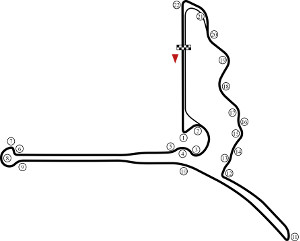
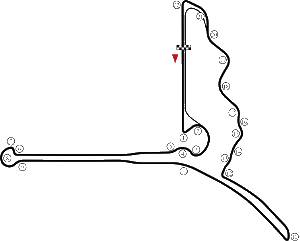
kleine veranderingen

diff --git a/public/mijnProject/css/design.css b/public/mijnProject/css/design.css
@@ -177,6 +177,31 @@ body {
 .achtergrondfoto22{
     background-image: url("../images/Vlaggen/FlagUnited_Arab_Emirates.jpg");
 }
+
+.GPnaam{
+    text-align: center;
+    font-family: verdana;
+}
+
+.info{
+    font-family: verdana;
+    font-size: 20px;
+    float: left;
+}
+
+.fotocircuit{
+    vertical-align: center;
+}
+
+.hoofdinfo{
+    margin-left: 50px;
+
+}
+
+.tekst{
+    width: 50%;
+}
+
 .coureur {
     width: 40%;
     height: 300px;

diff --git a/public/mijnProject/php/circuits.php b/public/mijnProject/php/circuits.php
@@ -313,57 +313,64 @@ $id = $_GET["id"];
     </head>
 
     <body>
+        <header class="GPnaam">
         <h1>Grand Prix van <?php echo $land[0]; ?> </h1>
+        </header>
         <br>
-        <h2> <?php echo $naam[0]; ?> : </h2>
-
-        <table>
-            <tr>
-                <td>Eerste Grand Prix:</td>
-                <td> <?php echo $eerste[0]; ?> </td>
-            </tr>
-            <tr>
-                <td>Circuit lengte:</td>
-                <td> <?php echo $lengte[0]; ?> </td>
-            </tr>
-            <tr>
-                <td>Aantal rondes:</td>
-                <td> <?php echo $rondes[0]; ?> </td>
-            </tr>
-            <tr>
-                <td>Totale race lengte:</td>
-                <td> <?php echo $totaal[0]; ?> </td>
-            </tr>
-            <tr>
-                <td>Aantal bochten:</td>
-                <td> <?php echo $bochten[0]; ?> </td>
-            </tr>
-            <tr>
-                <td>Aantal DRS-zones:</td>
-                <td> <?php echo $drs[0]; ?> </td>
-            </tr>
-            <tr>
-                <td>Rijrichting:</td>
-                <td> <?php echo $richting[0]; ?> </td>
-            </tr>
-            <tr>
-                <td>Circuit type:</td>
-                <td> <?php echo $soort[0]; ?> </td>
-            </tr>
-            <tr>
-                <td>Laatste winnaar:</td>
-                <td> <?php echo $winnaar[0]; ?> </td>
-            </tr>
-            <tr>
-                <td>Ronde record:</td>
-                <td> <?php echo $snelste[0]; ?> </td>
-            </tr>
-        </table>
-
+        <div class="hoofdinfo">
+            <div>
+                <h2> <?php echo $naam[0]; ?> : </h2>
+                <br>
+                <table class="info">
+                    <tr>
+                        <td>Eerste Grand Prix:</td>
+                        <td> <?php echo $eerste[0]; ?> </td>
+                    </tr>
+                    <tr>
+                        <td>Circuit lengte:</td>
+                        <td> <?php echo $lengte[0]; ?> </td>
+                    </tr>
+                    <tr>
+                        <td>Aantal rondes:</td>
+                        <td> <?php echo $rondes[0]; ?> </td>
+                    </tr>
+                    <tr>
+                        <td>Totale race lengte:</td>
+                        <td> <?php echo $totaal[0]; ?> </td>
+                    </tr>
+                    <tr>
+                        <td>Aantal bochten:</td>
+                        <td> <?php echo $bochten[0]; ?> </td>
+                    </tr>
+                    <tr>
+                        <td>Aantal DRS-zones:</td>
+                        <td> <?php echo $drs[0]; ?> </td>
+                    </tr>
+                    <tr>
+                        <td>Rijrichting:</td>
+                        <td> <?php echo $richting[0]; ?> </td>
+                    </tr>
+                    <tr>
+                        <td>Circuit type:</td>
+                        <td> <?php echo $soort[0]; ?> </td>
+                    </tr>
+                    <tr>
+                        <td>Laatste winnaar:</td>
+                        <td> <?php echo $winnaar[0]; ?> </td>
+                    </tr>
+                    <tr>
+                        <td>Ronde record:</td>
+                        <td> <?php echo $snelste[0]; ?> </td>
+                    </tr>
+                </table>
+            </div>
+        </div>
+        <div class="fotocircuit">
         <br>
-        <img src="../images/circuits/<?= $foto[0]?>.png" alt="Circuit" style="width:700px; margin: 15px;">
+        <img src="../images/circuits/<?= $foto[0]?>.png" alt="Circuit" style="width:600px; margin: 15px;">
         <br>
-
+        </div>
+        <div class="tekst">
         <p>
             <?php echo $tekst1[0]; ?>
         </p>
@@ -382,6 +389,7 @@ $id = $_GET["id"];
         <p>
             <?php echo $tekst6[0]; ?>
         </p>
+        </div>
         <br>
         <br>
         <br>
